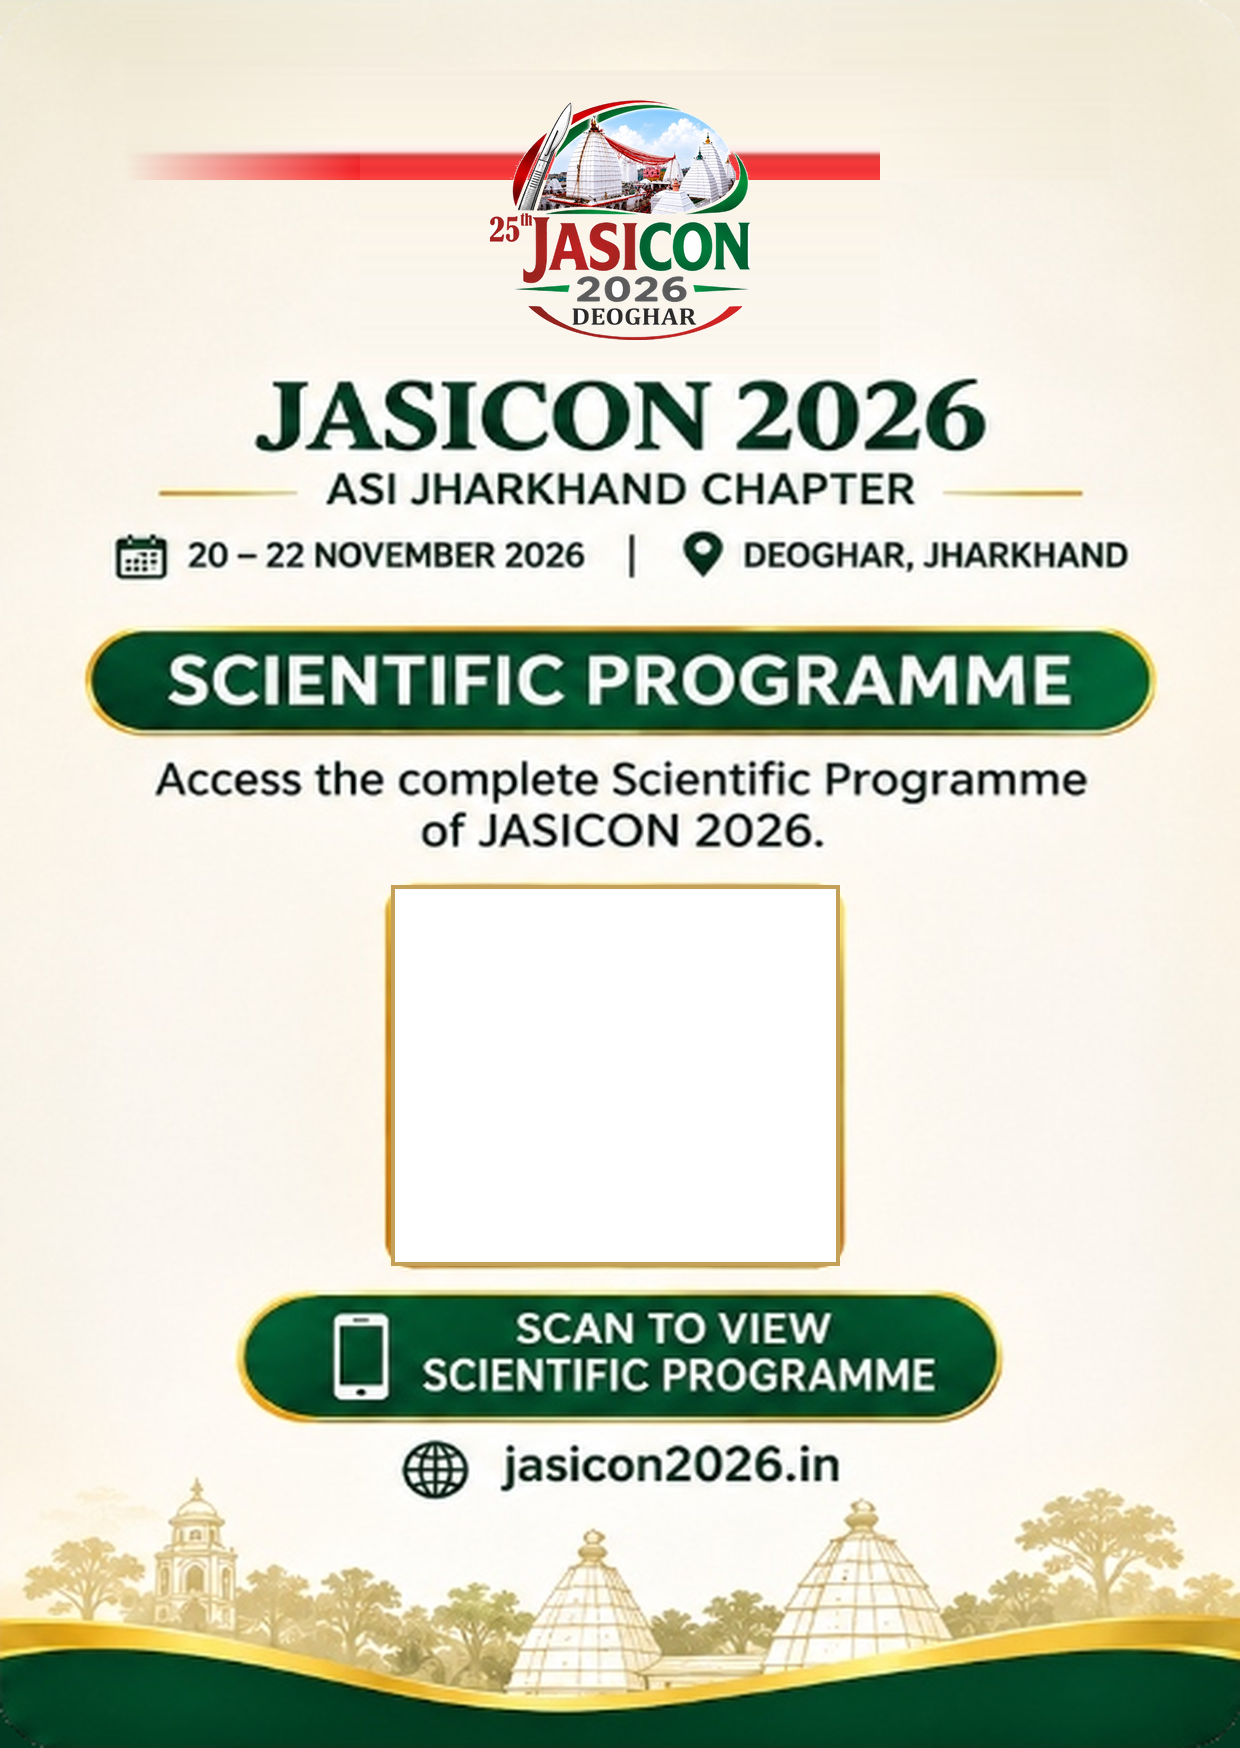
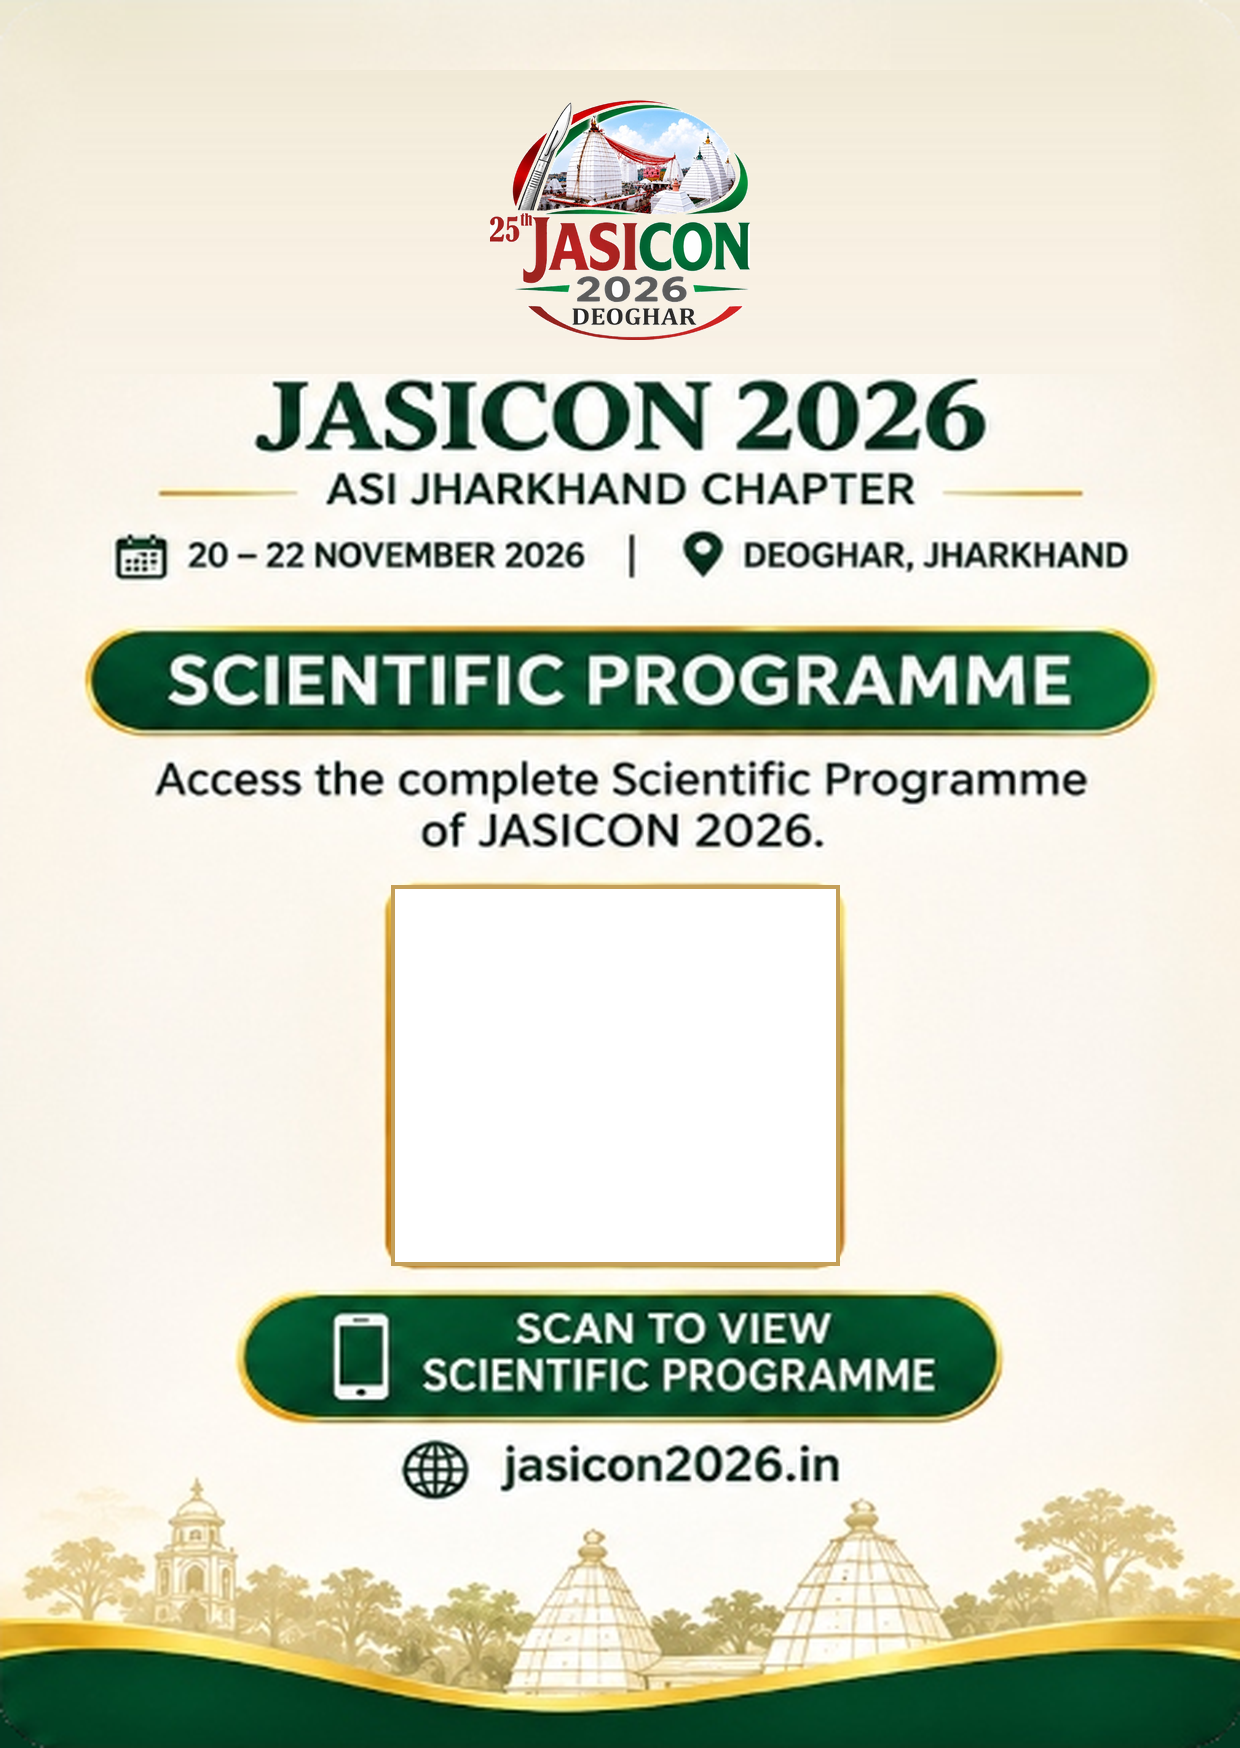
fix(badge): remove red smudge line from back badge artwork and bump cache to v14

Changed region(s): [[0.1226, 0.0618, 0.429, 0.1236], [0.5823, 0.0618, 0.7048, 0.1236]]

diff --git a/src/lib/badge-pdf-generator.ts b/src/lib/badge-pdf-generator.ts
@@ -282,7 +282,7 @@ export async function renderBadgeBackToCanvas(
   ctx.imageSmoothingQuality = 'high';
 
   // 1. Draw Master Back Template Artwork (800 DPI, Punchholes covered)
-  const backBase = await loadCanvasImage('/branding/master-back-template.png?v=13');
+  const backBase = await loadCanvasImage('/branding/master-back-template.png?v=14');
   ctx.drawImage(backBase, 0, 0, TARGET_800_W, TARGET_800_H);
 
   // 2. Scientific Programme QR Code (slot: x: 391..839, y: 885..1265)

diff --git a/src/components/jasicon-badge/BadgeBack.tsx b/src/components/jasicon-badge/BadgeBack.tsx
@@ -36,7 +36,7 @@ export function BadgeBack({
       {/* 1. MASTER AUTHENTIC BACK ARTWORK (Sharp 90-degree Rectangle, Covered Punchholes, Smooth Parchment Gradient) */}
       {/* eslint-disable-next-line @next/next/no-img-element */}
       <img
-        src="/branding/master-back-template.png?v=13"
+        src="/branding/master-back-template.png?v=14"
         alt="JASICON 2026 Master Back Artwork"
         style={{
           width: '100%',

diff --git a/scripts/generate-master-assets.py b/scripts/generate-master-assets.py
@@ -159,29 +159,29 @@ for y in range(H_raw - 35, H_raw):
 
 b_scaled = b_raw.resize((TARGET_W, TARGET_H), Image.Resampling.LANCZOS)
 
-# COVER TOP PUNCHHOLES ON BACK CARD (Parchment background)
+# COVER TOP PUNCHHOLES ON BACK CARD (Parchment background, y: 0..100)
 b_arr = np.array(b_scaled)
-for y in range(0, 180):
-    c_l = b_arr[y, 100].astype(float)
-    c_r = b_arr[y, 450].astype(float)
-    for x in range(125, 400):
-        t = (x - 125) / float(400 - 125)
+for y in range(0, 100):
+    c_l = b_arr[y, 80].astype(float)
+    c_r = b_arr[y, 380].astype(float)
+    for x in range(125, 350):
+        t = (x - 125) / float(350 - 125)
         b_arr[y, x] = ((1.0 - t) * c_l + t * c_r).astype(np.uint8)
 
-    c_l = b_arr[y, 820].astype(float)
-    c_r = b_arr[y, 1150].astype(float)
-    for x in range(830, 1110):
-        t = (x - 830) / float(1110 - 830)
+    c_l = b_arr[y, 880].astype(float)
+    c_r = b_arr[y, 1160].astype(float)
+    for x in range(890, 1115):
+        t = (x - 890) / float(1115 - 890)
         b_arr[y, x] = ((1.0 - t) * c_l + t * c_r).astype(np.uint8)
 
 b_scaled = Image.fromarray(b_arr)
 b_draw = ImageDraw.Draw(b_scaled)
 
-# BACK CENTER LOGO:
-# Erase 100% of old back logo from y=70 down to y=373 (JASICON 2026 starts at y=380)!
+# BACK CENTER LOGO & HEADER CLEANUP:
+# Erase 100% of old back logo and all red artifacts across the full width (x: 80..1160) from y=70 down to y=373!
 for y_coord in range(70, 374):
-    sample_parchment = b_scaled.getpixel((340, y_coord))
-    for x_coord in range(360, 880):
+    sample_parchment = b_scaled.getpixel((80, y_coord))
+    for x_coord in range(80, 1160):
         b_scaled.putpixel((x_coord, y_coord), sample_parchment)
 
 # Paste authentic center logo centered cleanly above JASICON 2026:
